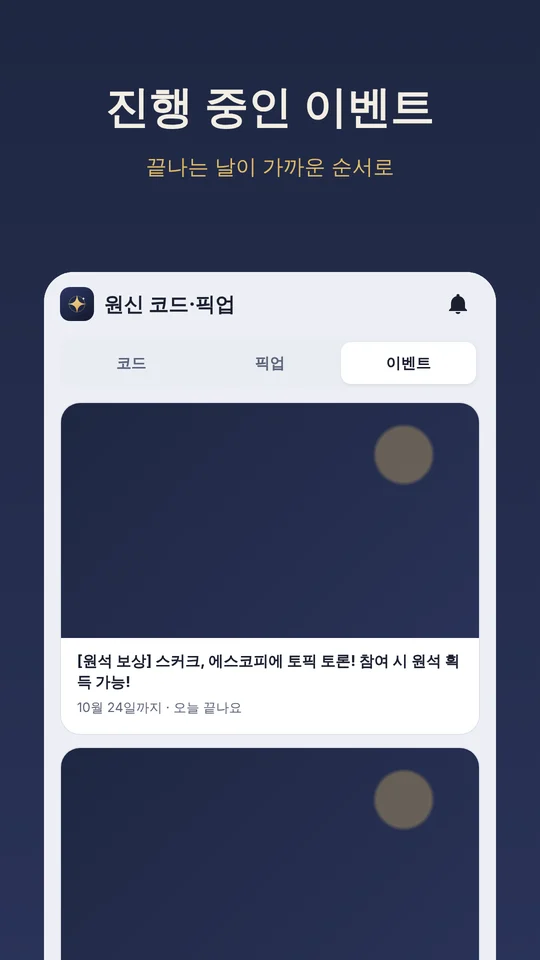
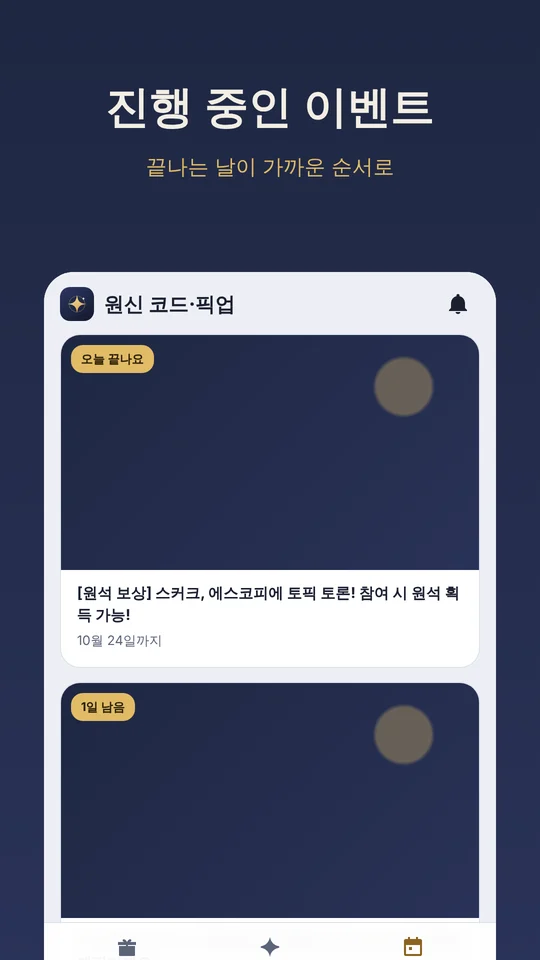
Web app: app-like bottom tabs, code summary hero, livestream codes first
- Bottom tab bar with icons (코드/픽업/이벤트) instead of a top switch
- Navy summary card with the app's numeral font (Marcellus digits, OFL):
  total codes plus livestream/new/ending counts
- Livestream codes in their own group at the top
- Copy feedback on the row itself ('복사됨 ✓')
- Days-left badge on event banners, gold when 3 days or fewer
- Promo screenshots on /checkin/ regenerated for the new layout

Claude-Session: https://claude.ai/code/session_01AVkzu9p2ytMeGHejvvs68H

Changed region(s): [[0.0889, 0.5938, 0.8889, 0.875], [0.0889, 0.3438, 0.8889, 0.5312], [0.0889, 0.9375, 0.8889, 1.0]]

diff --git a/genshin-codes/index.html b/genshin-codes/index.html
@@ -22,7 +22,11 @@
   :root { --pyro:#D9573A; --hydro:#3A86D6; --electro:#9A63CF; --cryo:#5DB7D3; --anemo:#3BA88F; --geo:#C99A2E; --dendro:#6FA83A;
           --live:#4E8A55; --warn:#B04A2A; --chip:#E9ECF3; --hero-muted:#A8AFC6; }
   @media (prefers-color-scheme: dark) { :root { --chip:#272D3D; --warn:#E07A55; } }
-  body { padding-top: 0; padding-bottom: calc(32px + env(safe-area-inset-bottom)); }
+  /* 앱의 큰 숫자 글꼴(Marcellus 숫자만, SIL OFL) */
+  @font-face { font-family: "Hoyo Numerals"; src: url("/genshin-codes/fonts/hoyo_numerals.ttf") format("truetype"); font-display: swap; }
+  body { padding-top: 0; padding-bottom: calc(96px + env(safe-area-inset-bottom)); }
+  @keyframes rise { from { opacity: 0; transform: translateY(6px); } to { opacity: 1; transform: none; } }
+  [data-panel]:not([hidden]) { animation: rise .25s ease-out; }
   main { max-width: 560px; }
 
   /* 위: 앱 이름과 알림 버튼 */
@@ -37,11 +41,31 @@
                    border: 2px solid var(--bg); }
   .icon-btn.on { color: var(--accent); }
 
-  /* 탭 */
-  .tabs { display: flex; gap: 4px; background: var(--chip); border-radius: 14px; padding: 4px; margin: 4px 0 14px; }
-  .tabs button { flex: 1; border: 0; background: none; font: inherit; font-size: 15px; font-weight: 700; color: var(--muted);
-                 padding: 8px 0; border-radius: 10px; cursor: pointer; }
-  .tabs button[aria-selected="true"] { background: var(--surface); color: var(--ink); box-shadow: 0 1px 3px rgba(0,0,0,.08); }
+  /* 아래 탭(앱처럼) */
+  .nav { position: fixed; left: 0; right: 0; bottom: 0; z-index: 6; background: color-mix(in srgb, var(--surface) 92%, transparent);
+         backdrop-filter: blur(12px); -webkit-backdrop-filter: blur(12px); border-top: 1px solid var(--line);
+         padding: 6px 12px calc(6px + env(safe-area-inset-bottom)); }
+  .nav div { max-width: 560px; margin: 0 auto; display: flex; }
+  .nav button { flex: 1; border: 0; background: none; font: inherit; font-size: 11px; font-weight: 700; color: var(--muted);
+                display: flex; flex-direction: column; align-items: center; gap: 2px; padding: 6px 0; cursor: pointer; }
+  .nav button svg { width: 24px; height: 24px; }
+  .nav button[aria-selected="true"] { color: var(--ink); }
+  .nav button[aria-selected="true"] svg { color: var(--accent); }
+
+  /* 코드 탭 위 요약 */
+  .sum { position: relative; overflow: hidden; background: var(--hero); color: var(--hero-ink); border-radius: 24px; padding: 18px 20px; margin: 4px 0 14px; }
+  .sum::after { content: ""; position: absolute; right: -50px; top: -50px; width: 170px; height: 170px; border-radius: 50%; border: 1px solid rgba(255,255,255,.12); }
+  .sum .eyebrow { color: var(--hero-muted); font-size: 13px; }
+  .sum .big { display: flex; align-items: baseline; gap: 6px; margin-top: 2px; }
+  .sum .big b { font-family: "Hoyo Numerals", Georgia, serif; font-weight: 400; font-size: 56px; line-height: 1; color: var(--gold); }
+  .sum .big span { font-size: 17px; }
+  .sum .facts { display: flex; flex-wrap: wrap; gap: 6px; margin-top: 12px; }
+  .sum .facts span { font-size: 12px; padding: 4px 9px; border-radius: 10px; background: rgba(255,255,255,.09); }
+  .sum .facts span.hot { background: var(--live); }
+  .sum .facts span.warn { background: rgba(224,122,85,.28); }
+  .label { margin: 16px 6px 8px; font-size: 13px; font-weight: 700; color: var(--muted); }
+  .group.live { border-color: color-mix(in srgb, var(--live) 45%, var(--line)); }
+  .code-row.copied .code { color: var(--live); }
 
   /* 리딤 코드 */
   .group { background: var(--surface); border: 1px solid var(--line); border-radius: 20px; overflow: hidden; }
@@ -95,8 +119,11 @@
   .pill.rnew { background: var(--live); color: #F2EEE3; } .pill.chron { background: var(--gold); color: #2A1F08; } .pill.none { background: var(--hydro); color: #fff; }
 
   /* 이벤트 */
-  .event { display: block; text-decoration: none; color: var(--ink); background: var(--surface); border: 1px solid var(--line);
-           border-radius: 20px; overflow: hidden; margin-bottom: 12px; }
+  .event { position: relative; display: block; text-decoration: none; color: var(--ink); background: var(--surface); border: 1px solid var(--line);
+           border-radius: 20px; overflow: hidden; margin-bottom: 14px; }
+  .event .left { position: absolute; left: 10px; top: 10px; font-size: 12px; font-weight: 700; padding: 4px 10px; border-radius: 12px;
+                 background: rgba(20,26,46,.72); color: #fff; }
+  .event .left.soon { background: var(--gold); color: #2A1F08; }
   .event img { display: block; width: 100%; aspect-ratio: 16/9; object-fit: cover; background: var(--hero); }
   .event div { padding: 12px 16px 14px; }
   .event strong { display: -webkit-box; -webkit-line-clamp: 2; -webkit-box-orient: vertical; overflow: hidden; font-size: 15px; line-height: 1.45; }
@@ -125,7 +152,7 @@
   .sheet ol { margin: 8px 0 0; padding-left: 1.2em; color: var(--ink); }
   .sheet .fine { margin: 12px 0 0; font-size: 12px; text-align: center; }
 
-  .toast { position: fixed; left: 50%; bottom: calc(24px + env(safe-area-inset-bottom)); transform: translateX(-50%); background: #1B2030; color: #F2EEE3;
+  .toast { position: fixed; left: 50%; bottom: calc(84px + env(safe-area-inset-bottom)); transform: translateX(-50%); background: #1B2030; color: #F2EEE3;
            padding: 10px 16px; border-radius: 12px; font-size: 14px; opacity: 0; transition: opacity .2s; pointer-events: none; z-index: 20; white-space: nowrap; }
   .toast.show { opacity: 1; }
   .empty { padding: 18px; color: var(--muted); font-size: 14px; text-align: center; }
@@ -143,13 +170,11 @@
     </button>
   </div>
 
-  <div class="tabs" role="tablist">
-    <button role="tab" aria-selected="true" data-tab="codes">코드</button>
-    <button role="tab" aria-selected="false" data-tab="pickup">픽업</button>
-    <button role="tab" aria-selected="false" data-tab="events">이벤트</button>
-  </div>
 
   <section data-panel="codes">
+    <div class="sum" id="sum"><div class="eyebrow">지금 쓸 수 있는 리딤 코드</div><div class="big"><b>·</b></div></div>
+    <div id="liveBox" hidden><div class="label">방송 코드 · 먼저 넣어요</div><div class="group live" id="liveCodes"></div></div>
+    <div class="label" id="restLabel" hidden>그 밖의 코드</div>
     <div class="group" id="codes"><div class="empty">불러오는 중...</div></div>
     <p class="tip">코드를 누르면 복사 · '입력'은 공식 입력 페이지</p>
     <a class="app-link" href="/checkin/">
@@ -178,6 +203,12 @@
     HoYoverse와 관련 없는 비공식 페이지예요 · <a href="/">Sumi Lab</a>
   </footer>
 </main>
+
+<nav class="nav" role="tablist"><div>
+  <button role="tab" aria-selected="true" data-tab="codes"><svg viewBox="0 0 24 24" fill="currentColor" aria-hidden="true"><path d="M4 11h16v9a1 1 0 0 1-1 1H5a1 1 0 0 1-1-1Zm-1-4h18v3H3Zm8 0h2v14h-2Zm1 0c-2-4-5.5-3-4-.5.6.5 2 .5 4 .5Zm0 0c2 0 3.4 0 4-.5 1.5-2.5-2-3.5-4 .5Z"/></svg>코드</button>
+  <button role="tab" aria-selected="false" data-tab="pickup"><svg viewBox="0 0 24 24" fill="currentColor" aria-hidden="true"><path d="M12 2c.6 4.9 4.3 8.6 9.2 9.2v1.6C16.3 13.4 12.6 17.1 12 22h-.1c-.6-4.9-4.3-8.6-9.1-9.2v-1.6C7.6 10.6 11.3 6.9 11.9 2Z"/></svg>픽업</button>
+  <button role="tab" aria-selected="false" data-tab="events"><svg viewBox="0 0 24 24" fill="currentColor" aria-hidden="true"><path d="M7 2h2v2h6V2h2v2h2a2 2 0 0 1 2 2v13a2 2 0 0 1-2 2H5a2 2 0 0 1-2-2V6a2 2 0 0 1 2-2h2Zm-2 8v9h14v-9Zm3 2h3v3H8Z"/></svg>이벤트</button>
+</div></nav>
 
 <div class="scrim" id="scrim" hidden></div>
 <div class="sheet" id="sheet" role="dialog" aria-modal="true" aria-labelledby="sheetTitle" hidden>
@@ -215,8 +246,13 @@
   document.addEventListener("click", async e => {
     const b = e.target.closest("[data-copy]");
     if (!b) return;
-    try { await navigator.clipboard.writeText(b.dataset.copy); toast(b.dataset.copy + " 복사했어요"); }
-    catch { toast("복사하지 못했어요"); }
+    try {
+      await navigator.clipboard.writeText(b.dataset.copy);
+      // 누른 자리에서 바로 '복사됨'으로 바뀌었다가 돌아온다.
+      const text = b.textContent, rowEl = b.closest(".code-row");
+      b.textContent = "복사됨 ✓"; rowEl && rowEl.classList.add("copied");
+      setTimeout(() => { b.textContent = text; rowEl && rowEl.classList.remove("copied"); }, 1200);
+    } catch { toast("복사하지 못했어요"); }
   });
 
   // ---------- 탭(마지막으로 본 탭을 기억) ----------
@@ -224,6 +260,7 @@
     document.querySelectorAll("[data-tab]").forEach(b => b.setAttribute("aria-selected", b.dataset.tab === name));
     document.querySelectorAll("[data-panel]").forEach(p => p.hidden = p.dataset.panel !== name);
     store.set("tab", name);
+    window.scrollTo(0, 0);
   }
   document.querySelectorAll("[data-tab]").forEach(b => b.onclick = () => showTab(b.dataset.tab));
   showTab(["codes", "pickup", "events"].includes(store.get("tab")) ? store.get("tab") : "codes");
@@ -236,27 +273,41 @@
 
   // ---------- 리딤 코드 ----------
   let codes = [], expanded = false;
+  function row(c, opened) {
+    const isNew = c.discovered && dayDiff(today, c.discovered) <= 3;
+    const soon = c.expiry && dayDiff(c.expiry, today) <= 2;
+    const until = c.expiry ? (c.expiry === today ? "오늘까지" : md(c.expiry) + "까지") : null;
+    const pills = (!c.live && isNew ? '<span class="pill new">NEW</span>' : "")
+      + (c.server === "전 서버" ? "" : `<span class="pill server only">${esc(c.server)}</span>`);
+    const detail = [until ? `<span class="${soon ? "soon" : ""}">${until}</span>` : "", c.reward ? esc(c.reward) : ""].filter(Boolean).join(" · ");
+    const was = opened.has(c.code);
+    return `<div class="code-row${was ? " opened" : ""}">
+      <div class="code-main">
+        <div class="code-line"><button class="code" data-copy="${esc(c.code)}" title="복사">${esc(c.code)}</button>${pills}</div>
+        ${detail ? `<div class="detail">${detail}</div>` : ""}
+      </div>
+      <a class="enter" href="${GIFT(c.code)}" target="_blank" rel="noopener" data-open="${esc(c.code)}">${was ? "열어 봄" : "입력 ›"}</a>
+    </div>`;
+  }
   function renderCodes() {
     const opened = new Set(store.get("opened", []));
+    const live = codes.filter(c => c.live), rest = codes.filter(c => !c.live);
+    // 위 요약: 큰 숫자 + 방송·새 코드·곧 끝나는 코드
+    const fresh = codes.filter(c => c.discovered && dayDiff(today, c.discovered) <= 3).length;
+    const ending = codes.filter(c => c.expiry && dayDiff(c.expiry, today) <= 2).length;
+    const todo = codes.filter(c => !opened.has(c.code)).length;
+    $("sum").innerHTML = `<div class="eyebrow">지금 쓸 수 있는 리딤 코드</div>
+      <div class="big"><b>${codes.length}</b><span>개</span></div>
+      <div class="facts">${live.length ? `<span class="hot">방송 코드 ${live.length}개</span>` : ""}${fresh ? `<span>새 코드 ${fresh}개</span>` : ""}${ending ? `<span class="warn">곧 끝나는 코드 ${ending}개</span>` : ""}${todo < codes.length ? `<span>아직 안 연 코드 ${todo}개</span>` : ""}</div>`;
+    $("liveBox").hidden = !live.length;
+    $("liveCodes").innerHTML = live.map(c => row(c, opened)).join("");
+    $("restLabel").hidden = !live.length || !rest.length;
     const box = $("codes");
     if (!codes.length) { box.innerHTML = '<div class="empty">지금 쓸 수 있는 코드가 없어요.</div>'; return; }
-    const shown = expanded ? codes : codes.slice(0, FOLDED);
-    box.innerHTML = shown.map(c => {
-      const isNew = c.discovered && dayDiff(today, c.discovered) <= 3;
-      const soon = c.expiry && dayDiff(c.expiry, today) <= 2;
-      const until = c.expiry ? (c.expiry === today ? "오늘까지" : md(c.expiry) + "까지") : null;
-      const pills = (c.live ? '<span class="pill live">방송</span>' : isNew ? '<span class="pill new">NEW</span>' : "")
-        + (c.server === "전 서버" ? "" : `<span class="pill server only">${esc(c.server)}</span>`);
-      const detail = [until ? `<span class="${soon ? "soon" : ""}">${until}</span>` : "", c.reward ? esc(c.reward) : ""].filter(Boolean).join(" · ");
-      const was = opened.has(c.code);
-      return `<div class="code-row${was ? " opened" : ""}">
-        <div class="code-main">
-          <div class="code-line"><button class="code" data-copy="${esc(c.code)}" title="복사">${esc(c.code)}</button>${pills}</div>
-          ${detail ? `<div class="detail">${detail}</div>` : ""}
-        </div>
-        <a class="enter" href="${GIFT(c.code)}" target="_blank" rel="noopener" data-open="${esc(c.code)}">${was ? "열어 봄" : "입력 ›"}</a>
-      </div>`;
-    }).join("") + (codes.length > shown.length ? `<button class="more" id="more">코드 ${codes.length - shown.length}개 더 보기</button>` : "");
+    box.hidden = !rest.length;
+    const shown = expanded ? rest : rest.slice(0, FOLDED);
+    box.innerHTML = shown.map(c => row(c, opened)).join("")
+      + (rest.length > shown.length ? `<button class="more" id="more">코드 ${rest.length - shown.length}개 더 보기</button>` : "");
     const more = $("more");
     if (more) more.onclick = () => { expanded = true; renderCodes(); };
   }
@@ -333,9 +384,10 @@
     const live = list.filter(e => !e.end || e.end > now);
     $("events").innerHTML = live.length ? live.map(e => {
       const left = e.end ? Math.floor((e.end - now) / 86400) : null;
-      const when = e.end ? `${md(new Date(e.end * 1000 + 8 * 3600e3).toISOString().slice(0, 10))}까지 · ${left <= 0 ? "오늘 끝나요" : left + "일 남음"}` : "상시";
+      const when = e.end ? `${md(new Date(e.end * 1000 + 8 * 3600e3).toISOString().slice(0, 10))}까지` : "상시";
+      const pill = left === null ? "" : `<span class="left${left <= 3 ? " soon" : ""}">${left <= 0 ? "오늘 끝나요" : left + "일 남음"}</span>`;
       return `<a class="event" href="${esc(e.url)}" target="_blank" rel="noopener">
-        ${e.banner ? `<img src="${esc(e.banner)}" alt="" loading="lazy" referrerpolicy="no-referrer">` : ""}
+        ${e.banner ? `<img src="${esc(e.banner)}" alt="" loading="lazy" referrerpolicy="no-referrer">` : ""}${pill}
         <div><strong>${esc(e.name)}</strong><span>${when}</span></div></a>`;
     }).join("") : '<div class="group empty">지금 진행 중인 이벤트가 없어요.</div>';
   }
